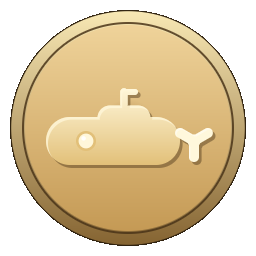
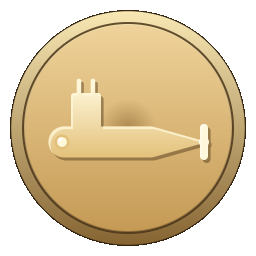
fix: 艇身改成真实潜艇侧影，不再是等粗胶囊
之前那艘是「胶囊 + 方块 + 尾巴一根竖线」，不像潜艇。查了公开的潜艇侧影资料
（Wikimedia 的 SVG 分类、几家矢量素材的形态描述），真实潜艇侧影的共同点是：
细长圆柱艇身、圆头、**尾部收细成锥**、前三分之一处一座矩形指挥塔带潜望镜、
尾端接桨。我原来那版全是等粗的，尾巴是钝的，桨直接怼在钝口上。

改成：

  圆头 → 平行中体 → 锥形尾段 → 尾端两叶桨
  前段矩形指挥塔（带圆角）+ 两根潜望镜

比例取 5.5:1。真实的约 11:1，但那样 32 px 下只剩一条线，读不出来。

技术上新写了圆台 SDF（sd_round_cone）画收细的尾段。第一版公式抄错：判据写成
`a2²·x²`，正确的是 `sign(rr)·rr²·x²`。写错之后尾段整段被判到轮廓外面，锥形
根本画不出来——中线上 196 处的距离算出 +30.6（外部），实际应该是 -2.5（内部）。

顺带：指挥塔从 26 高加到 36，比艇身还高，不然缩在艇身上像块补丁；两叶桨
加粗到 r=4，32 px 下是 1×4 px 的亮竖条，能看见。

验证（发布包 32×32 提取）：指挥塔 #FAEDC8、艇身 #E9CE92、螺旋桨 #FFF9DF
（比艇身亮 0.15）、外圈下沿 #BE9452。256 下沿中线采样，艇身 0.81 到 x=198
为止，桨从 x=200 起 0.97，衔接干净。

测试 155 + 19 通过。

Changed region(s): [[0.1562, 0.3125, 0.8438, 0.6562]]

diff --git a/tools/make_icon.py b/tools/make_icon.py
@@ -47,16 +47,18 @@ PROP_LIGHT = "#FFF8DC"
 RELIEF_BOTTOM = "#E2C079"
 RELIEF_EDGE = "#4A3418"
 
-# 潜艇浮雕：艇身、指挥塔、潜望镜、螺旋桨
-# 艇身右端收在 184、桨毂放 192：中间留一道窄缝，不然螺旋桨会被艇身吞掉
-# （胶囊的端头是圆的，半径会多伸出 24，之前桨毂整个落在艇身里）。
-# 「含螺旋桨」的轮廓要正好落在圆心，币面才不会一半空一半挤。
-HULL = (70.0, 141.0, 156.0, 141.0, 24.0)
-TOWER = (110.0, 118.0, 138.0, 118.0, 12.5)
-PERISCOPE = (124.0, 105.0, 124.0, 92.0, 3.8)
-PERISCOPE_HEAD = (124.0, 92.0, 135.0, 92.0, 3.0)
-PROP_HUB = (194.0, 141.0, 6.5)
-PORTHOLE = (86.0, 141.0, 10.0)
+# 潜艇浮雕。参考真实潜艇侧影：细长圆柱艇身、圆头、尾部收细成锥、
+# 前三分之一处一座矩形指挥塔带潜望镜、尾端两叶桨。
+# 比例约 5.5:1——真实的约 11:1，但那样在 32 px 下只剩一条线，读不出来。
+HULL_BODY = (64.0, 142.0, 150.0, 142.0, 15.5)        # 平行中体
+HULL_TAIL = (150.0, 142.0, 198.0, 142.0, 15.5, 2.5)  # 锥形尾段
+SAIL = (86.0, 111.0, 15.0, 18.0, 3.5)                # 指挥塔：中心、半宽、半高、圆角
+MASTS = ((79.0, 95.0, 79.0, 81.0, 2.2),
+         (93.0, 95.0, 93.0, 81.0, 2.2))              # 两根潜望镜
+PROP_HUB = (204.0, 142.0, 5.0)
+PROP_BLADES = ((204.0, 142.0, 204.0, 128.0, 4.0),
+               (204.0, 142.0, 204.0, 156.0, 4.0))    # 两叶桨，侧视就是一条竖线
+PORTHOLE = (62.0, 142.0, 7.5)
 
 # 桨叶：一根朝下、两根朝上斜，侧视下最像螺旋桨
 PROP_ANGLES = (90.0, 210.0, 330.0)
@@ -107,6 +109,40 @@ def sd_circle(px, py, cx, cy, radius):
     return math.hypot(px - cx, py - cy) - radius
 
 
+def sd_round_rect(px, py, cx, cy, half_w, half_h, radius):
+    qx = abs(px - cx) - (half_w - radius)
+    qy = abs(py - cy) - (half_h - radius)
+    return math.hypot(max(qx, 0.0), max(qy, 0.0)) + min(max(qx, qy), 0.0) - radius
+
+
+def sd_round_cone(px, py, ax, ay, bx, by, radius_a, radius_b):
+    """两端半径不同的「胶囊」，用来画潜艇收细的尾段。"""
+    bax, bay = bx - ax, by - ay
+    length2 = bax * bax + bay * bay
+    difference = radius_a - radius_b
+    a2 = length2 - difference * difference
+    inverse = 1.0 / length2
+
+    pax, pay = px - ax, py - ay
+    along = pax * bax + pay * bay
+    past = along - length2
+
+    x2 = (pax * length2 - bax * along) ** 2 + (pay * length2 - bay * along) ** 2
+    y2 = along * along * length2
+    z2 = past * past * length2
+
+    # 判据是 sign(rr)·rr²·x²，不是 a2²·x²。写成后者的话尾段整段被判到外面，
+    # 收细的锥形根本画不出来。
+    k = (1 if difference > 0 else -1) * difference * difference * x2
+
+    if (1 if past > 0 else -1) * a2 * z2 > k:
+        return math.sqrt(x2 + z2) * inverse - radius_b
+    if (1 if along > 0 else -1) * a2 * y2 < k:
+        return math.sqrt(x2 + y2) * inverse - radius_a
+
+    return (math.sqrt(x2 * a2 * inverse) + along * difference) * inverse - radius_a
+
+
 def cover(d_px: float) -> float:
     """距离（像素）转覆盖度，1 px 宽的过渡带就是抗锯齿。"""
     return clamp(0.5 - d_px)
@@ -120,24 +156,25 @@ def band(d_px: float, half_width: float) -> float:
 # ---------------------------------------------------------------- 画面
 
 def body_distance(px: float, py: float) -> float:
-    """艇身、指挥塔、潜望镜。"""
-    return min(
-        sd_capsule(px, py, *HULL),
-        sd_capsule(px, py, *TOWER),
-        sd_capsule(px, py, *PERISCOPE),
-        sd_capsule(px, py, *PERISCOPE_HEAD),
+    """艇身（平行中体 + 锥形尾段）、指挥塔、潜望镜。"""
+    d = min(
+        sd_capsule(px, py, *HULL_BODY),
+        sd_round_cone(px, py, *HULL_TAIL),
+        sd_round_rect(px, py, *SAIL),
     )
+
+    for mast in MASTS:
+        d = min(d, sd_capsule(px, py, *mast))
+
+    return d
 
 
 def propeller_distance(px: float, py: float) -> float:
-    """桨毂与三片桨叶。单独算，因为它用更亮的金属色，不然和艇身糊成一片。"""
+    """桨毂与两叶桨。单独算，因为它用更亮的金属色，不然和艇身糊成一片。"""
     d = sd_circle(px, py, *PROP_HUB)
 
-    for angle in PROP_ANGLES:
-        radians = math.radians(angle)
-        bx = PROP_HUB[0] + math.cos(radians) * PROP_BLADE_LENGTH
-        by = PROP_HUB[1] + math.sin(radians) * PROP_BLADE_LENGTH
-        d = min(d, sd_capsule(px, py, PROP_HUB[0], PROP_HUB[1], bx, by, PROP_BLADE_RADIUS))
+    for blade in PROP_BLADES:
+        d = min(d, sd_capsule(px, py, *blade))
 
     return d
 
@@ -190,7 +227,7 @@ def shade(px: float, py: float, scale: float) -> tuple[float, float, float, floa
     body_d = body_distance(px, py)
     body_alpha = cover(px_(body_d))
     if body_alpha > 0:
-        relief = mix(rgb(RELIEF_TOP), rgb(RELIEF_BOTTOM), clamp((py - 88.0) / 77.0))
+        relief = mix(rgb(RELIEF_TOP), rgb(RELIEF_BOTTOM), clamp((py - 85.0) / 74.0))
         result = over(result, relief, body_alpha)
 
         # 左上缘高光：本体减去「往右下偏移后的本体」，剩下的那道月牙就是受光边。
